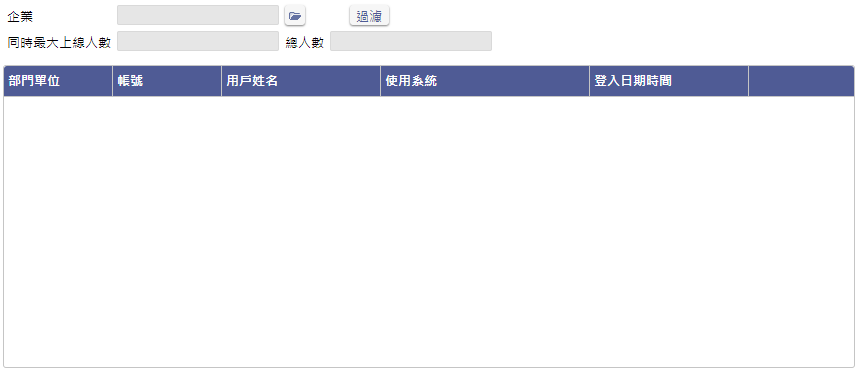
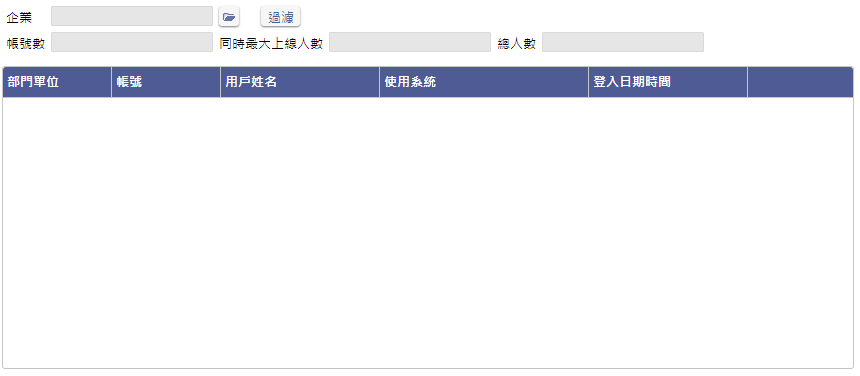
#9213規格異動

diff --git a/8.10.2/UPDATE/ITEM_17/RTE/README.md b/8.10.2/UPDATE/ITEM_17/RTE/README.md
@@ -14,7 +14,19 @@
   * RTE站台管理
     * 站台啟用流程
       * 增加向授權中心認證站台授權
+      * 當站台授權=同時連線數
+        * 驗證站台MAC與授權檔案是否相符
+        * 以同時連線數作為站台本身的控制
+      * 當站台授權=帳號數
+        * 驗證站台MAC與授權檔案是否相符
+        * 以增加的帳號數作為站台本身的控制
+      * 當站台授權=雲端平台授權
+        * 不須驗證站台MAC
+        * 不做任何連線數以及帳號數的控制
       * 完整的規格文件請參照[站台啟用](../../../RTE/SITE/active/README.md)
+    * 站台授權設定
+      * 新增加的表單，用來顯示獲更新站台授權
+      * 完整的規格文件請參照[站台授權設定](../../../RTE/SITE/siteauth/README.md)
     * 企業設定系統
       * 增加向授權中心認證系統授權
         * 當授權類型=同時連線數時
@@ -23,7 +35,18 @@
         * 當授權類型=帳號數
           * 判斷該系統的授權數量不可超過站台授權數量總和
             * 超過顯示錯誤訊息
+        * 當站台授權=雲端服務平台
+          * 該站台下所有系統不須再經過認證授權
       * 完整的規格文件請參照[企業設定系統](../../../RTE/SITE/enterprisesystem/README.md)
+    * 站台線上人數查詢
+      * 增加欄位.帳號數
+      * 完整的規格文件請參照[站台線上人數查詢](../../../RTE/SITE/siteonlineuser/README.md)
+    * 企業線上人數查詢
+      * 增加欄位.帳號數
+      * 完整的規格文件請參照[企業線上人數查詢](../../../RTE/SITE/enterpriseonlineuser/README.md)
+    * 系統線上人數查詢
+      * 增加欄位.帳號數
+      * 完整的規格文件請參照[系統線上人數查詢](../../../RTE/SITE/systemonlineuser/README.md)
   * RTE運行
     * 登入畫面
       * RTE站台授權到期前一個月，登入畫面顯示提示訊息表示授權快到期了

diff --git a/8.10.2/RTE/SITE/enterprisesystem/README.md b/8.10.2/RTE/SITE/enterprisesystem/README.md
@@ -13,11 +13,17 @@
     * 按鈕.刪除系統 : 點擊後，會將此筆系統資料刪除，並不會立即生效，待點擊按鈕.儲存後才生效。
     * 欄位.系統 : 不可輸入，僅顯示。
       * 按鈕.挑選系統 : 點擊後開啟視窗顯示系統清單，
-    * 欄位.授權人數 : 該企業使用此系統時，可用的人數或者可加入的帳號數
+    * 欄位.授權人數 : 該企業使用此系統時，可用的人數或者可加入的帳號數，依據授權類型表示不同的意思
+      * 當系統授權類型=同時連線數時
+        * 表示所有企業系統授權數量總和不可超過站台授權數量總和
+      * 當系統授權類型=帳號數
+        * 表示該系統的授權數量不可超過站台授權數量總和
     * 欄位.授權狀態 : 目前該企業下的系統的授權啟用狀態
     * 按鈕.啟用授權 : 點擊後開啟啟用系統授權的畫面
       * 當授權狀態 = 未啟用，按鈕名稱改為啟用授權
       * 當授權狀態 = 已啟用，按鈕名稱改為更新授權
+      * 當站台授權類型=雲端平台授權
+        * 站台上所有系統不需再經過授權，一律變為已啟用
     * 欄位.選單樣式 : 左側欄選單的選單樣式，僅生效於舊版首頁
     * 欄位.閒置登出時間(分鐘) : 為企業使用者登入系統後的預設時間
     * 欄位.上傳檔案大小(MB) : 為企業使用者登入系統上傳檔案大小的限制

diff --git a/8.10.2/RTE/SITE/siteauth/README.md b/8.10.2/RTE/SITE/siteauth/README.md
@@ -23,11 +23,19 @@
     * 狀態類型如下
       * 已啟用
       * 已過期
+  * 欄位.授權類型 : 顯示目前站台授權的類型
+    * 僅顯示
+    * 授權類型如下
+      * 同時連線數
+      * 帳號數
+      * 雲端平台授權
   * 欄位.授權到期 : 顯示目前站台授權的到期日
     * 日期型態欄位
     * 僅顯示
+    * 當欄位.授權類型=雲端授權平台時，本欄位隱藏
   * 按鈕.更新授權 : 提供給站台管理者更新站台授權用(如:授權到期進行更新授權)
     * 點擊後，顯示更新授權的畫面
+    * 當欄位.授權類型=雲端授權平台時，本欄位隱藏
   * 欄位.授權檔案 : 
     * 必要欄位
     * 檔案型態欄位

diff --git a/8.10.2/RTE/SITE/systemonlineuser/README.md b/8.10.2/RTE/SITE/systemonlineuser/README.md
@@ -11,6 +11,8 @@
     * 僅顯示
     * 可點擊按鈕開窗挑選系統
       * 開窗挑選時會使用欄位.企業做為過濾條件，過濾出該企業下的系統清單提供挑選
+  * 欄位.帳號數 : 依據欄位.企業以及欄位.系統下已生效的帳號數
+    * 僅顯示
   * 欄位.同時最大上線人數 : 該企業下系統同時最大上線人數
     * 僅顯示
   * 欄位.總人數 : 該企業下系統目前上線總人數

diff --git a/8.10.2/RTE/SITE/enterpriseonlineuser/README.md b/8.10.2/RTE/SITE/enterpriseonlineuser/README.md
@@ -13,6 +13,8 @@
     * 更新欄位.同時最大上線人數
     * 更新欄位.總人數
     * 將查詢到的資料更新到表格.使用者清單
+  * 欄位.帳號數 : 依據欄位.企業所挑選的企業下已生效的帳號數
+    * 僅顯示
   * 欄位.同時最大上線人數 : 該企業同時最大上線人數
     * 僅顯示
   * 欄位.總人數 : 該企業目前上線總人數

diff --git a/8.10.2/RTE/SITE/siteonlineuser/README.md b/8.10.2/RTE/SITE/siteonlineuser/README.md
@@ -4,6 +4,8 @@
 ![畫面]
 
 * 上述畫面各欄位說明如下所示 :
+  * 欄位.帳號數 : 表示目前站台已生效的帳號數
+    * 僅顯示
   * 欄位.同時上線最大數 : 表示站台可接受的同時最大上線人數
     * 僅顯示
   * 欄位.總人數 : 表示目前站台上線人數
